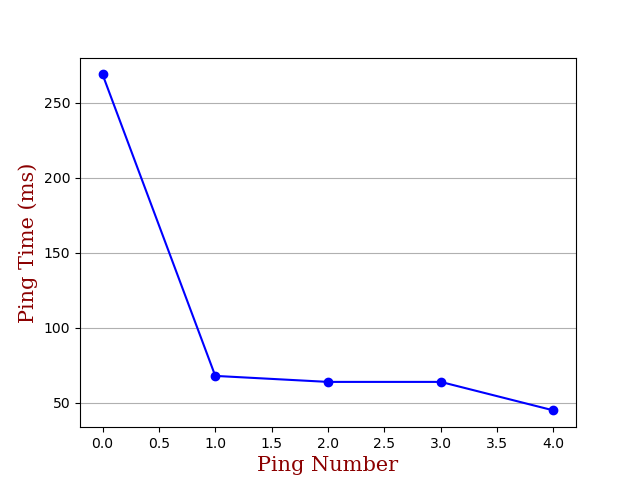
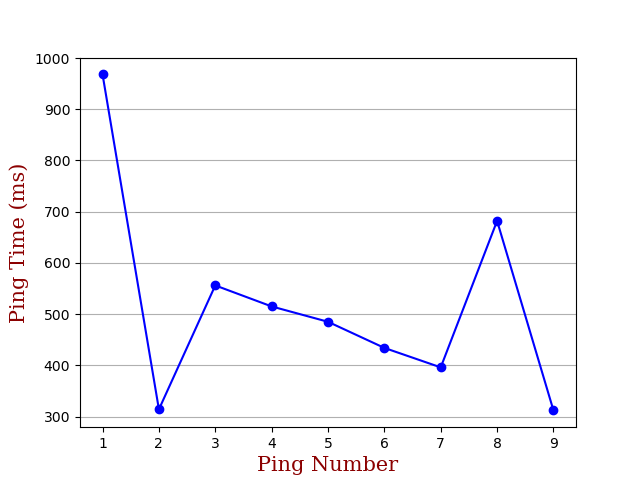
update

diff --git a/templates/index.html b/templates/index.html
@@ -16,7 +16,7 @@
             flex-direction: column;
             align-items: center;
             justify-content: center;
-            min-height: 100vh;
+            min-height: 75vh;
             margin: 0;
 	    font-family: 'Opens Sans',sans-serif;
         }
@@ -34,7 +34,10 @@
                 
 		gap: 0px;
 		margin: 0px auto 0px;
-            }              
+            } 
+	.top-margin {
+		margin: 20px auto 20px;
+	    }
 	h1 {
            margin: 0;
        }
@@ -44,9 +47,9 @@
 	}
      .header {
 	   color: black;
-	   padding: 20px;
+	   padding: 10px;
 	   text-align: center;
-	   border-radius: 60px;
+	   border-radius: 30px;
 	   margin-bottom: 20px;
   	}
        a {
@@ -57,6 +60,22 @@
 	 background-color: #28a745;
 	 border-color: #28a745;
       }
+      h2{
+	  text-align: center;
+	  padding: 30px auto 300px
+      }
+      .heading-2{
+	 margin: 60px auto 30px;
+     }
+     
+     .btn-1{
+	 background-color: #fafad2;
+      }
+      .btn-2{
+	 background-color:  #ffb6c1;
+      }
+      
+     
     </style>
 </head>
 <body>
@@ -68,12 +87,12 @@
         <h3>{{ message }}</h3>
     {% endif %}
     <div class="top-button">
-	<a href="/scan_wifi" class="btn btn-primary btn-lg btn-block">Scan Available WIFI</a>
-        <a href="/plot" class="btn btn-info btn-md btn-block">Available Wifi Bar-Graph</a>
+	<a href="/scan_wifi" class="btn btn-primary btn-lg btn-block top-margin">Scan Available WIFI</a>
+        <a href="/plot" class="btn btn-info btn-lg btn-block top-margin">Available Wifi Bar-Graph</a>
       </div>   
   
    <form method="post">
-    <div class="mb-3">
+    <div class="mb-1">
     <label for="input_ssid" class="form-label">Enter SSID</label>
     <input type="text" class="form-control" placeholder="Example: LTTS-Guest"  name="input_ssid" required>
     <div class="btn-group">
@@ -82,14 +101,18 @@
 	 <button type="submit" formaction="/more" class="btn btn-info">More Info</button>
     </div>
    </form>
+   <div class="heading-2">
+   <h2>Important Links</h2>
+   </div>
+    
 
-    <div class="btn-group">
-        <a href="/blocked_wifi" class="btn btn-dark">Blocked Wi-Fi List</a>
-	<a href="/reset" class="btn btn-danger">Remove All Blocked Wi-Fi</a>
-        <a href="/connect" class="btn btn-primary">Connect to a Wifi</a>
-	<a href="/ping" class="btn btn-primary">Ping</a>
-	<a href="/speed_test" class="btn btn-primary">Intenet Speed Test</a>
-    </div>
+
+        <a href="/blocked_wifi" class="btn btn-dark btn-lg btn-block ">Blocked Wi-Fi List</a>
+	<a href="/reset" class="btn btn-danger btn-lg btn-block ">Remove All Blocked Wi-Fi</a>
+        <a href="/connect" class="btn btn-1 btn-lg btn-block ">Connect to a Wifi</a>
+	<a href="/ping" class="btn btn-2 btn-lg btn-block ">Ping to a Host</a>
+	<a href="/speed_test" class="btn btn-primary btn-lg btn-block ">Intenet Speed Test</a>
+    
     <script src="https://cdn.jsdelivr.net/npm/bootstrap@5.3.0/dist/js/bootstrap.bundle.min.js"></script>
 </body>
       </html>

diff --git a/templates/more_info.html b/templates/more_info.html
@@ -4,6 +4,11 @@
     <meta charset="UTF-8">
     <meta name="viewport" content="width=device-width, initial-scale=1.0">
     <title>Wi-Fi Detailed Information</title>
+    <script src="https://code.jquery.com/jquery-3.3.1.slim.min.js" integrity="sha384-q8i/X+965DzO0rT7abK41JStQIAqVgRVzpbzo5smXKp4YfRvH+8abtTE1Pi6jizo" crossorigin="anonymous"></script>
+<script src="https://cdn.jsdelivr.net/npm/popper.js@1.14.3/dist/umd/popper.min.js" integrity="sha384-ZMP7rVo3mIykV+2+9J3UJ46jBk0WLaUAdn689aCwoqbBJiSnjAK/l8WvCWPIPm49" crossorigin="anonymous"></script>
+<script src="https://cdn.jsdelivr.net/npm/bootstrap@4.1.3/dist/js/bootstrap.min.js" integrity="sha384-ChfqqxuZUCnJSK3+MXmPNIyE6ZbWh2IMqE241rYiqJxyMiZ6OW/JmZQ5stwEULTy" crossorigin="anonymous"></script>   
+ <link href="https://cdn.jsdelivr.net/npm/bootstrap@5.3.0/dist/css/bootstrap.min.css" rel="stylesheet">
+<link rel="stylesheet" href="httpd://fonts.googleapis.com/css?family=Open+Sans">
     <style>
      body {
             display: flex;
@@ -11,7 +16,7 @@
             align-items: center;
             justify-content: center;
             margin: 0;
-        }
+            
     </style>
 </head>
 <body>
@@ -19,7 +24,12 @@
 	  {% for block in details %}
               <pre style="text-align:center">  {{ block }}</pre>
             {% endfor %}
-    
+    <footer class="fixed-bottom text-center bg-light p-2">
+	<a href="/" class="btn btn-primary">Go to Main Page</a>
+    </footer>
+     <script src="https://cdn.jsdelivr.net/npm/bootstrap@5.3.0/dist/js/bootstrap.bundle.min.js"></script>
+     <script src="https://code.jquery.com/jquery-3.5.1.slim.min.js"></script>
+     <script src="https://cdn.jsdelivr.net/npm/@popperjs/core@2.9.3/dist/umd/popper.min.js"></script>
 </body>
 </html>
 

diff --git a/templates/blocked_wifi.html b/templates/blocked_wifi.html
@@ -4,6 +4,11 @@
     <meta charset="UTF-8">
     <meta name="viewport" content="width=device-width, initial-scale=1.0">
     <title>Blocked Wi-Fi List</title>
+    <script src="https://code.jquery.com/jquery-3.3.1.slim.min.js" integrity="sha384-q8i/X+965DzO0rT7abK41JStQIAqVgRVzpbzo5smXKp4YfRvH+8abtTE1Pi6jizo" crossorigin="anonymous"></script>
+<script src="https://cdn.jsdelivr.net/npm/popper.js@1.14.3/dist/umd/popper.min.js" integrity="sha384-ZMP7rVo3mIykV+2+9J3UJ46jBk0WLaUAdn689aCwoqbBJiSnjAK/l8WvCWPIPm49" crossorigin="anonymous"></script>
+<script src="https://cdn.jsdelivr.net/npm/bootstrap@4.1.3/dist/js/bootstrap.min.js" integrity="sha384-ChfqqxuZUCnJSK3+MXmPNIyE6ZbWh2IMqE241rYiqJxyMiZ6OW/JmZQ5stwEULTy" crossorigin="anonymous"></script>   
+ <link href="https://cdn.jsdelivr.net/npm/bootstrap@5.3.0/dist/css/bootstrap.min.css" rel="stylesheet">
+<link rel="stylesheet" href="httpd://fonts.googleapis.com/css?family=Open+Sans">
     <style>
        body {
             display: flex;
@@ -49,6 +54,12 @@
             {% endfor %}
         </tbody>
     </table>
+    <footer class="fixed-bottom text-center bg-light p-2">
+	<a href="/" class="btn btn-primary">Go to Main Page</a>
+    </footer>
+     <script src="https://cdn.jsdelivr.net/npm/bootstrap@5.3.0/dist/js/bootstrap.bundle.min.js"></script>
+     <script src="https://code.jquery.com/jquery-3.5.1.slim.min.js"></script>
+     <script src="https://cdn.jsdelivr.net/npm/@popperjs/core@2.9.3/dist/umd/popper.min.js"></script>
 </body>
 </html>
 

diff --git a/templates/ping_to_inputip.html b/templates/ping_to_inputip.html
@@ -61,11 +61,20 @@
      
             {% for parameters, details in info.items() %}
                 <tr>
-                    <td><th>{{ parameters }}</th> </td>
+                    <td><b>{{ parameters }}</b> </td>
+		    {% if parameters=='Packet loss' %}
+			<td>{{ details }} %</td>
+		    {% elif parameters=='Target host' %}
+			<td>{{ details }}</td>
+			{% else %}
                     <td>{{ details }} ms</td>
+		    {% endif %}
                 </tr>
             {% endfor %}
     </table>
+    <footer class="fixed-bottom text-center bg-light p-2">
+	<a href="/" class="btn btn-primary">Go to Main Page</a>
+    </footer>
 </body>
 </html>
 

diff --git a/templates/connect.html b/templates/connect.html
@@ -63,6 +63,9 @@
 	<button type="submit" formaction="/connect_to_given_input" class="btn btn-primary">Submit</button>
     </div>
    </form>
+   <footer class="fixed-bottom text-center bg-light p-2">
+	<a href="/" class="btn btn-primary">Go to Main Page</a>
+    </footer>
     <script src="https://cdn.jsdelivr.net/npm/bootstrap@5.3.0/dist/js/bootstrap.bundle.min.js"></script>
 </body>
       </html>

diff --git a/templates/ping.html b/templates/ping.html
@@ -65,6 +65,9 @@
 	<button type="submit" formaction="/ping_to_input_ip" class="btn btn-primary">Submit</button>
     </div>
    </form>
+     <footer class="fixed-bottom text-center bg-light p-2">
+	<a href="/" class="btn btn-primary">Go to Main Page</a>
+    </footer>
     <script src="https://cdn.jsdelivr.net/npm/bootstrap@5.3.0/dist/js/bootstrap.bundle.min.js"></script>
 </body>
       </html>

diff --git a/templates/plot.html b/templates/plot.html
@@ -43,6 +43,9 @@
          </div>
 
       <img src="{{ url_for('static', filename='plot.png') }}" alt="wifi signal strengths">
+      <footer class="fixed-bottom text-center bg-light p-2">
+	<a href="/" class="btn btn-primary">Go to Main Page</a>
+    </footer>
 <script src="https://cdn.jsdelivr.net/npm/bootstrap@5.3.0/dist/js/bootstrap.bundle.min.js"></script>
 </body>
       </html>

diff --git a/templates/speed.html b/templates/speed.html
@@ -53,7 +53,10 @@
 	{% else %}
 	<h3>Try again......</h3>
 	{% endif %}
-      <a href="{{ url }}" 
+     
+      <footer class="fixed-bottom text-center bg-light p-2">
+	<a href="/" class="btn btn-primary">Go to Main Page</a>
+    </footer>
 <script src="https://cdn.jsdelivr.net/npm/bootstrap@5.3.0/dist/js/bootstrap.bundle.min.js"></script>
 </body>
       </html>

diff --git a/updated_wifi.py b/updated_wifi.py
@@ -181,14 +181,17 @@ def ping():
 @app.route('/ping_to_input_ip',methods=['POST'])
 def ping_to_input_ip():
 	ip = request.form['input_ip']
-	result = subprocess.check_output(['ping','-c', '5', ip])
-	result = result.decode('utf-8')
-	
-	time = re.findall(r"time=[0-9][0-9]?[0-9]?", result)
-	received = re.findall(r"[0-9] received",result)
-	if len(time)==0:
+	c=0
+	try:
+		result = subprocess.check_output(['ping','-c', '9', ip],universal_newlines=True)
+	except subprocess.CalledProcessError as e:
+		c = e.returncode
+	if c!=0:
 		return render_template('ping.html',message=f"Ping request could not find host {ip}. Please check the name and try again.")
 	else:
+		#result = result.decode('utf-8')
+		time = re.findall(r"time=[0-9][0-9]?[0-9]?", result)
+		received = re.findall(r"[0-9] received",result)
 		l = []
 		for x in time:
 			t = x[5:]
@@ -198,12 +201,13 @@ def ping_to_input_ip():
 		min_time = min(l)
 		max_time = max(l)
 		avg_time = int(sum(l)/len(l))
-		s_packet = 5
+		s_packet = 9
 		r_packet = int(received[0][0:1])
 		l_packet = s_packet-r_packet
-		l_percent = (l_packet/5)*100
+		l_percent = (l_packet/9)*100
+		x_axis = [1,2,3,4,5,6,7,8,9]
 		d = {'Target host':ip, 'Average ping':avg_time,'Minimum ping':min_time,'Maximum ping':max_time,'Packet loss':l_percent}
-		plt.plot(l,color='blue',marker='o')
+		plt.plot(x_axis,l,color='blue',marker='o')
 		#plt.xticks([])
 		font1 = {'family':'serif','color':'darkred','size':15}
 		plt.xlabel('Ping Number',fontdict = font1)
